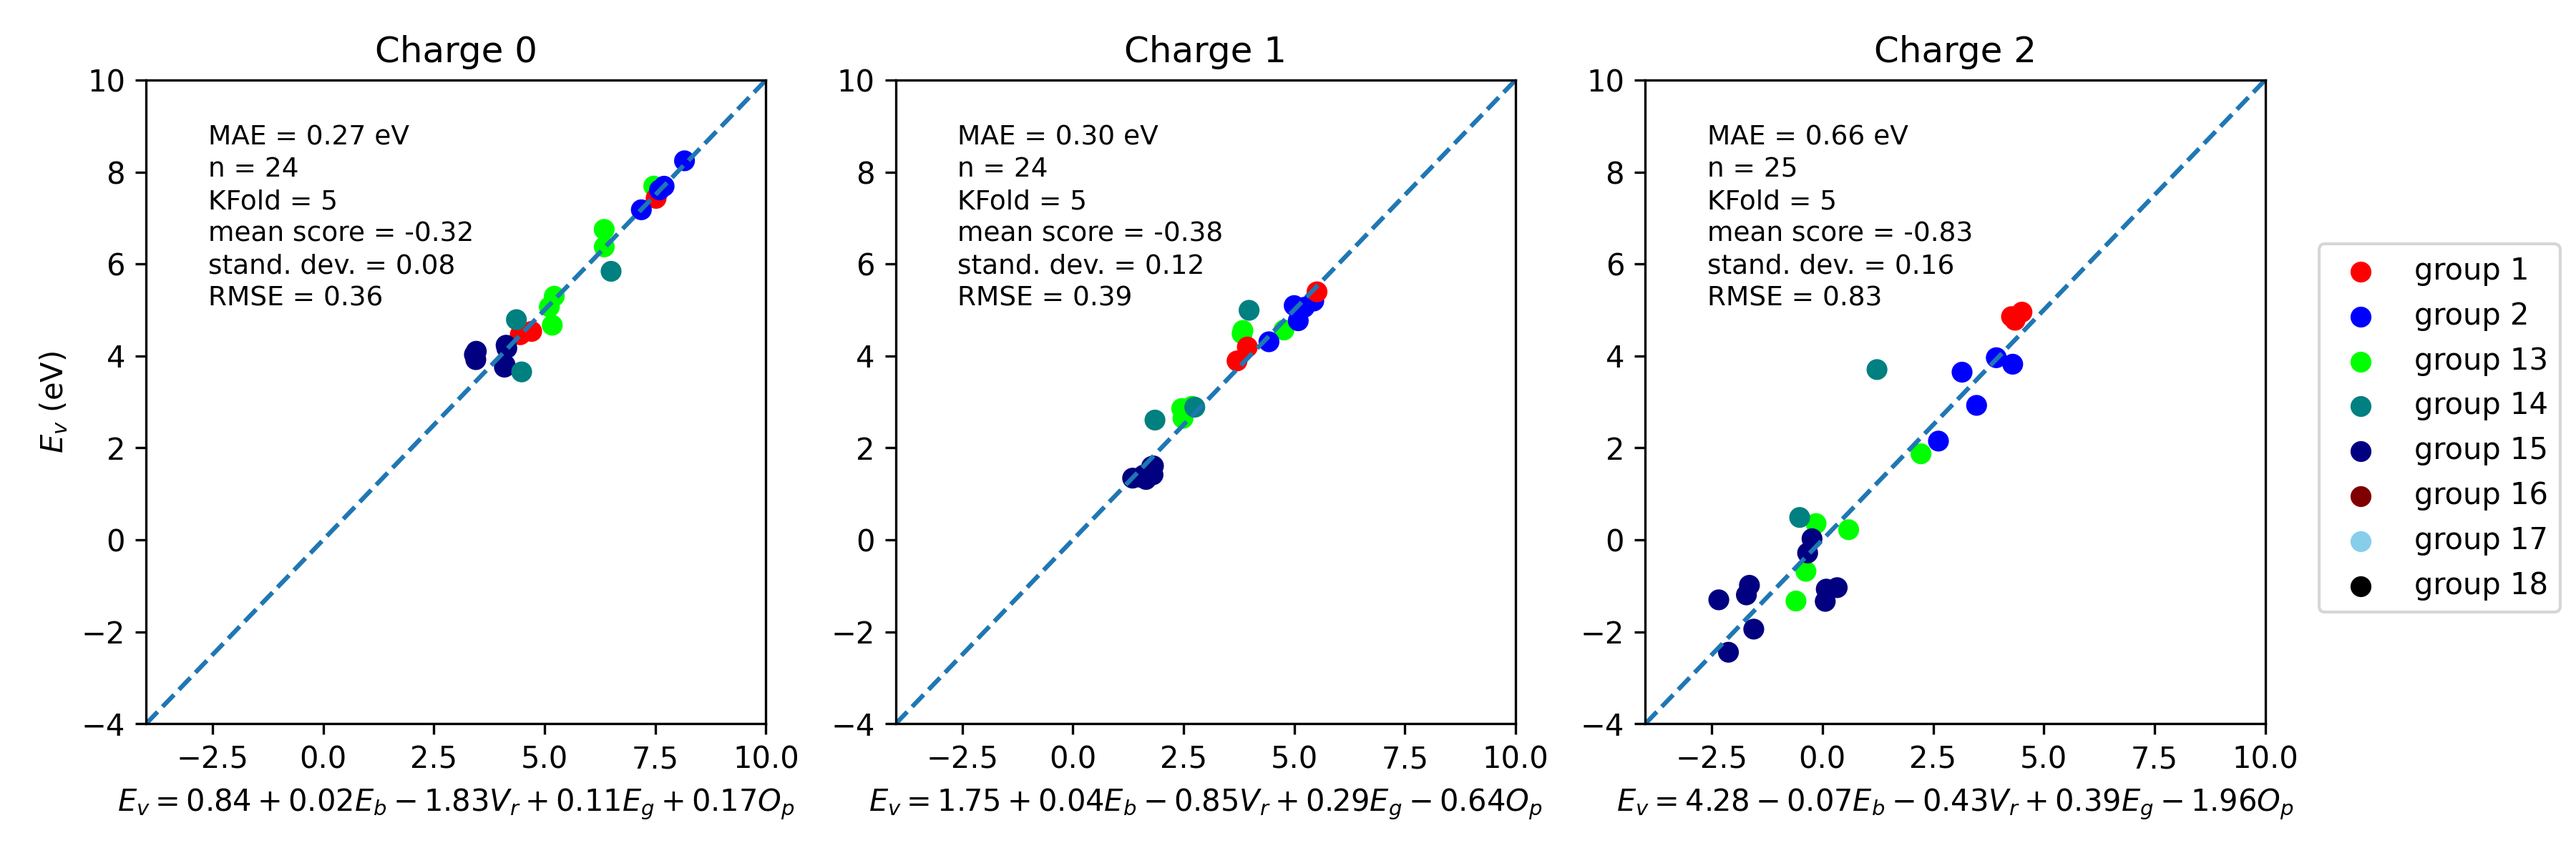
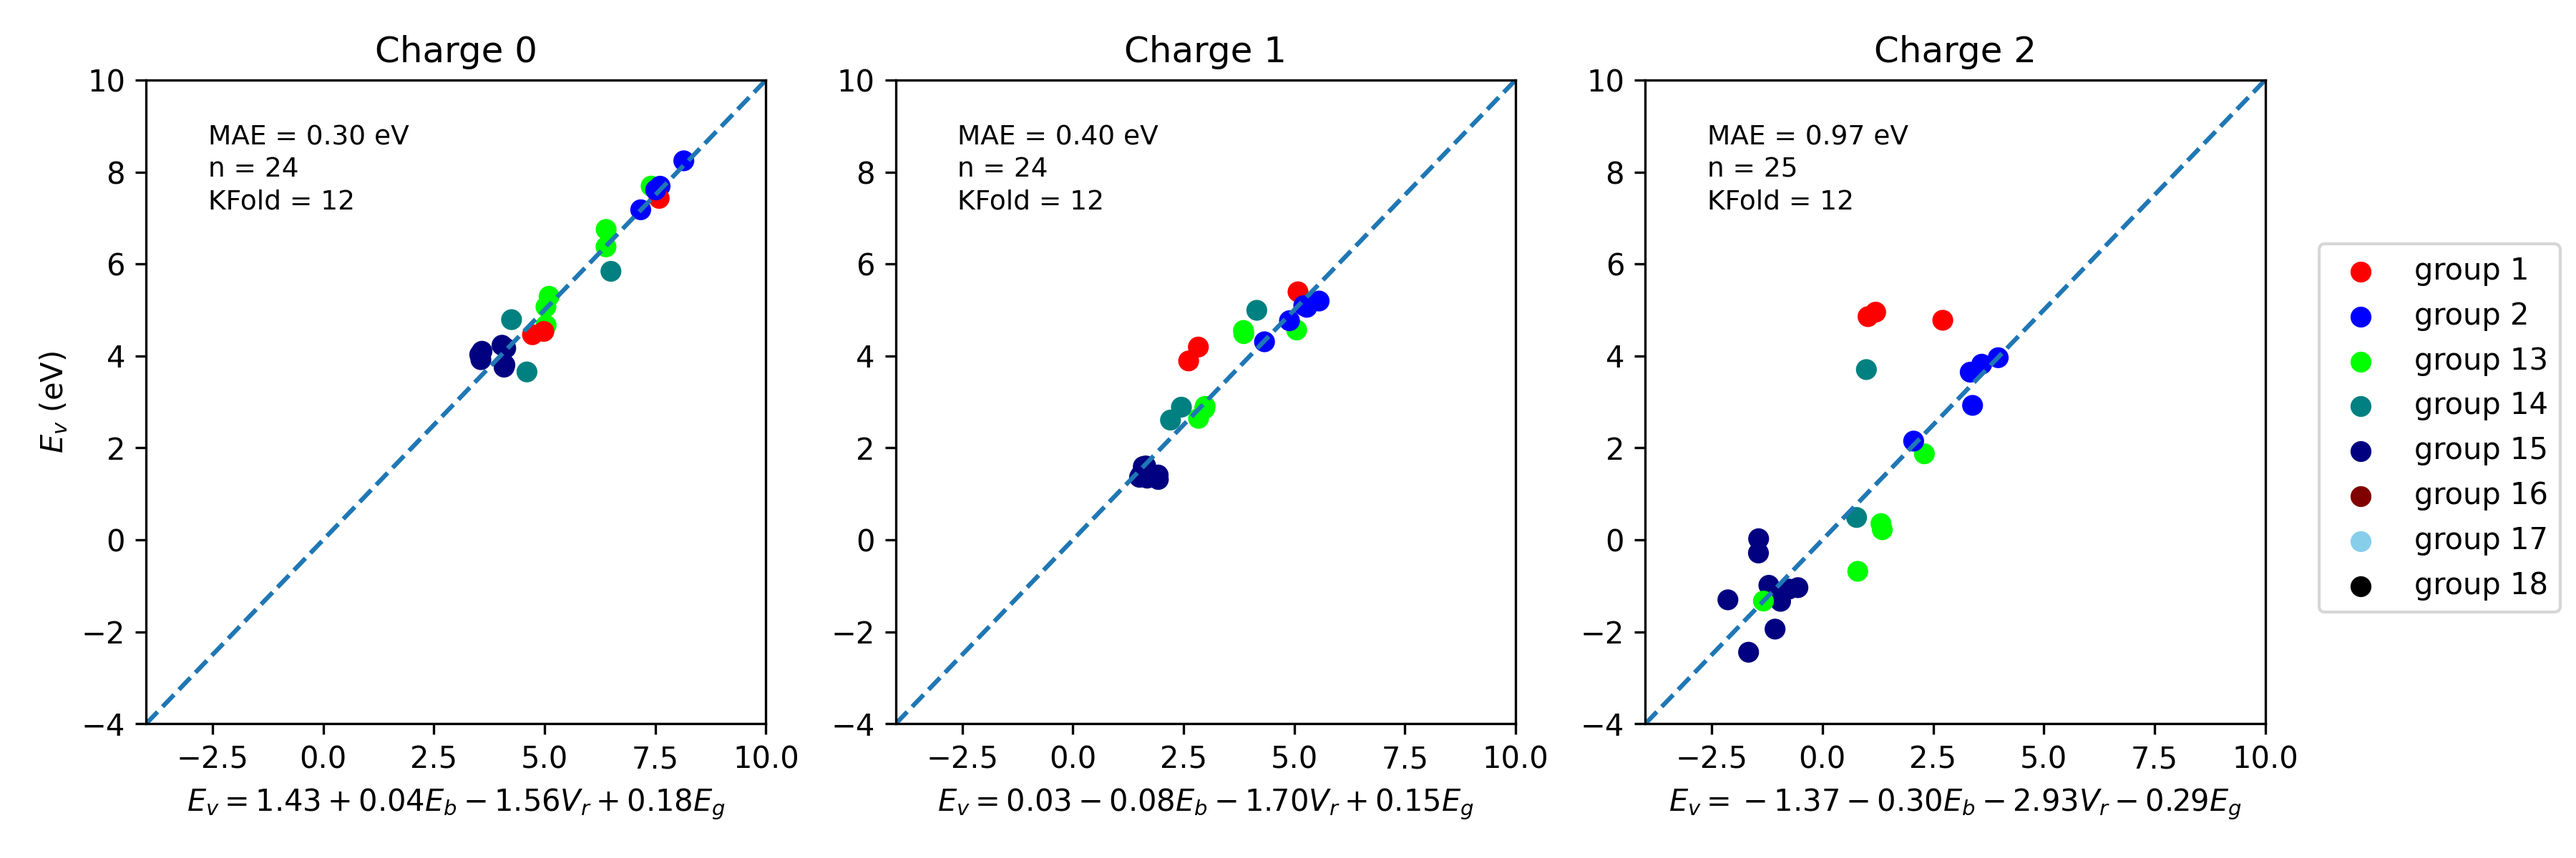
added a way to compare against Deml. use of o2p and Eg vs Vr in graphing_kumagai.py. new visuals of kumagai's full (no TM). witman_analysis.py returned to functional state

diff --git a/analysis/witman_analysis.py b/analysis/witman_analysis.py
@@ -95,18 +95,19 @@ def main():
     # Calculate crystal features for binary structures
     #df = df[df["is_binary"]]
     df = df[df["is_binary_or_ternary"]]
-    mask = df.groupby('formula')['bandgap_eV'].transform('nunique') > 1
-    df = df[mask]
     df_cf = pd.DataFrame()
 
     for defectid in tqdm(df["defectid"].unique()):
         df_defectid = df[df["defectid"] == defectid]
         structure = df_defectid["structure"].iloc[0]
+        print(structure)
         site_index = df_defectid["site"].iloc[0]
+        print(site_index)
         defect_site = structure[site_index]
         try:
             valences = BVA().get_valences(structure)
             site_valence = valences[site_index]
+            print(site_valence)
             near_neighbors = get_nearest_neighbors(structure, site_index)
             nn = structure.get_neighbors(defect_site, 3)
             bv_sum_defined = calculate_bv_sum(site=defect_site, nn_list=near_neighbors)
@@ -146,64 +147,35 @@ def main():
         # Make a dataframe
         formula = df_defectid["formula"].values
         defectid = df_defectid["defectid"].values
-        site = df_defectid["site"].values
         Eg = df_defectid["bandgap_eV"].values
         Ev = df_defectid["dH_eV"].values
         Ehull = df_defectid["adjusted_dH"].values
-        data_for_csv = []
-        data_for_csv.append({"formula": formula,
+        try:
+            df_cf = pd.concat(
+                [
+                    df_cf,
+                    pd.DataFrame(
+                        {
+                            "formula": formula,
                             "defectid": defectid,
-                             "site": site,
-                             "Eb_sum": Eb_sum,
-                             "Eb_sum_bva": Eb_sum_bvs,
-                             "Eb_sum_bva_nn": Eb_sum_bvs_nn,
-                             "Vr_max": Vr_max,
-                             "Eg": Eg,
-                             "Ev": Ev,
-                             "Ehull": Ehull, })
-        # try:
-        #     df_cf = pd.concat(
-        #         [
-        #             df_cf,
-        #             pd.DataFrame(
-        #                 {
-        #                     "formula": formula,
-        #                     "defectid": defectid,
-        #                     "site": site,
-        #                     "Eb_sum": Eb_sum,
-        #                     "Eb_sum_bva": Eb_sum_bvs,
-        #                     "Eb_sum_bva_nn": Eb_sum_bvs_nn,
-        #                     "Vr_max": Vr_max,
-        #                     "Eg": Eg,
-        #                     "Ev": Ev,
-        #                     "Ehull": Ehull,
-        #                 }
-        #             ),
-        #         ]
-        #     )
-        # except ValueError:
-        #     print("df failed")
-        #     pass
+                            "site": site_index,
+                            "Eb_sum": Eb_sum,
+                            "Eb_sum_bva": Eb_sum_bvs,
+                            "Eb_sum_bva_nn": Eb_sum_bvs_nn,
+                            "Vr_max": Vr_max,
+                            "Eg": Eg,
+                            "Ev": Ev,
+                            "Ehull": Ehull,
+                        }
+                    ),
+                ]
+            )
+        except ValueError:
+            print("df failed")
+            pass
 
     df_cf = df_cf.reset_index(drop=True)
-    # df_cf.to_csv("../data/papers/witman/figures/witman_data_polymorphs.csv", index=False)
 
-    csv_file_path = "../data/papers/witman/figures/witman_data_polymorphs.csv"
-
-    # Define the field names
-    field_names = ["formula", "defectid", "site", "Eb_sum", "Eb_sum_bva", "Eb_sum_bva_nn", "Vr_max", "Eg", "Ev", "Ehull"]
-
-    # Write the data to the CSV file
-    with open(csv_file_path, mode='w', newline='') as file:
-        writer = csv.DictWriter(file, fieldnames=field_names)
-
-        # Write the header
-        writer.writeheader()
-
-        # Write the data
-        for data_row in data_for_csv:
-            writer.writerow(data_row)
-    exit(3)
     df_cf = df_cf.dropna()
     cfm = HuberRegressor()
     cfm_alt = HuberRegressor()

diff --git a/analysis/graphing_kumagai.py b/analysis/graphing_kumagai.py
@@ -37,15 +37,16 @@ df_plot = pd.read_csv("kumagai_full_Eb_BVS_frac_Vr.csv")
 
 # # get binaries from binaries/ternaries
 df_plot["is_binary"] = df_plot.formula.apply(lambda x: len(Composition(x)) == 2)
-
+df_plot["Deml_o2p_Eg"] = df_plot["o2p_center_from_vbm"] + (1.5 /2) * df_plot['band_gap']
 fig, axs = plt.subplots(ncols=3, figsize=(12, 4))
 
 for i, charge in enumerate([0, 1, 2]):
     cfm = linear_model.HuberRegressor()
+    X = df_plot.loc[df_plot.charge == charge, ["Deml_o2p_Eg"]]
     # X = df_plot.loc[df_plot.charge == charge, ["vr_max", "band_gap"]]
     # y = df_plot.loc[df_plot.charge == charge, "vacancy_formation_energy"]
     # X = df_plot.loc[df_plot.charge == charge, ["Eb_sum", "vr_max", "band_gap"]]
-    X = df_plot.loc[df_plot.charge == charge, ["Eb_sum", "vr_max", "band_gap", "o2p_center_from_vbm"]]
+    # X = df_plot.loc[df_plot.charge == charge, ["Eb_sum", "vr_max", "band_gap", "o2p_center_from_vbm"]]
     # X = df_plot.loc[df_plot.charge == charge, ["Eb_sum", "vr_max", "band_gap", "o2p_center_from_vbm", 'bv_sum_Crystal']]
     # X = df_plot.loc[df_plot.charge == charge, ["Eb_sum", "vr_max", "band_gap", 'bv_sum_Crystal']]
 
@@ -130,9 +131,10 @@ for i, charge in enumerate([0, 1, 2]):
     axs[i].set_ylim(-4, 10)
 
     # Add equation
+    equation = "$E_v = {:.2f} {:+.2f} Deml$".format(cfm.intercept_, cfm.coef_[0])
     # equation = "$E_v = {:.2f} {:+.2f} E_b {:+.2f} V_r {:+.2f} E_g$".format(cfm.intercept_, cfm.coef_[0], cfm.coef_[1],
     #                                                                        cfm.coef_[2])
-    equation = "$E_v = {:.2f} {:+.2f} E_b {:+.2f} V_r {:+.2f} E_g {:+.2f} O_p$".format(cfm.intercept_, cfm.coef_[0], cfm.coef_[1], cfm.coef_[2], cfm.coef_[3])
+    # equation = "$E_v = {:.2f} {:+.2f} E_b {:+.2f} V_r {:+.2f} E_g {:+.2f} O_p$".format(cfm.intercept_, cfm.coef_[0], cfm.coef_[1], cfm.coef_[2], cfm.coef_[3])
     # equation = "$E_v = {:.2f} {:+.2f} E_b {:+.2f} V_r {:+.2f} E_g {:+.2f} O_2p {:+.2f} BV_sum$".format(cfm.intercept_, cfm.coef_[0], cfm.coef_[1], cfm.coef_[2], cfm.coef_[3], cfm.coef_[4])
     # equation = "$E_v = {:.2f} {:+.2f} E_b {:+.2f} V_r {:+.2f} E_g {:+.2f} BVS$".format(cfm.intercept_, cfm.coef_[0], cfm.coef_[1], cfm.coef_[2], cfm.coef_[3])
 
@@ -171,5 +173,5 @@ for i, charge in enumerate([0, 1, 2]):
         #     axs[i].scatter([], [], marker=shape_map[x], label=f'group {x}')
         # axs[i].legend(loc='lower left', bbox_to_anchor=(2, 0.15))
 plt.tight_layout()
-plt.savefig("kumagai_full_vr_eb_frac_O2p_K5.png", dpi=300)
+plt.savefig("kumagai_full_O2p_deml.png", dpi=300)
 plt.show()
